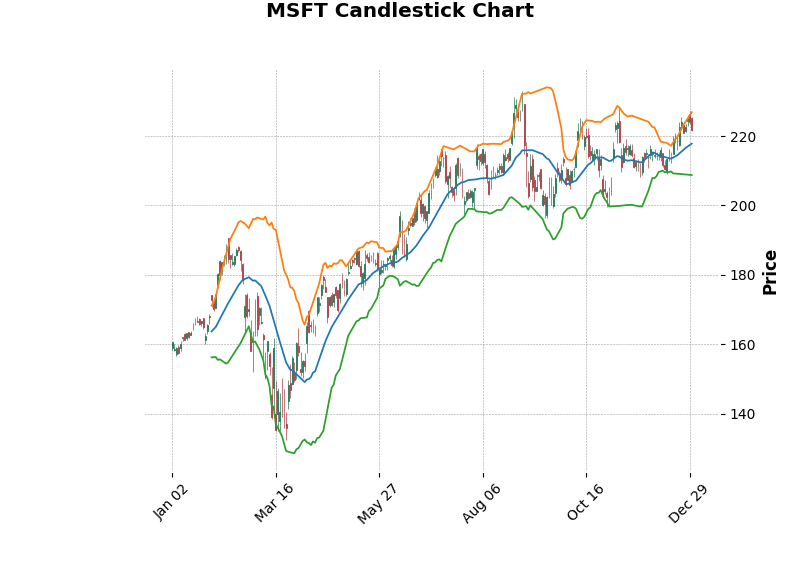
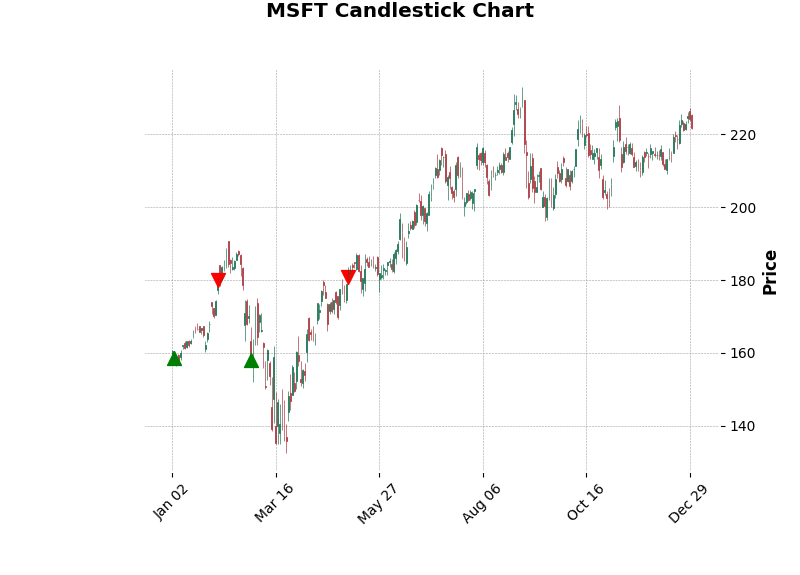
Working with basic strategy markers

diff --git a/graph_charts.py b/graph_charts.py
@@ -66,7 +66,7 @@ def add_volume(data, stock, data_original):
     data_with_volume['Volume'] = data_original[f'{stock} Volume']
     return data_with_volume
 
-def create_candlestick_chart(csv_file, output_filename, stock, volume=False, bollinger_bands=False, moving_averages=False, rsi=False):
+def create_candlestick_chart(csv_file, output_filename, stock, backtesting_instance=None, volume=False, bollinger_bands=False, moving_averages=False, rsi=False):
     data_original = pd.read_csv(csv_file, index_col=0, parse_dates=True)
     column_prefix = stock
     data = data_original[[f'{column_prefix} Open', f'{column_prefix} High', f'{column_prefix} Low', f'{column_prefix} Close']]
@@ -89,10 +89,31 @@ def create_candlestick_chart(csv_file, output_filename, stock, volume=False, bol
         rsi_plot, data = add_rsi(data)
         additional_plots.append(rsi_plot)
 
-    mpf.plot(data, type='candle', style='charles', title=f'{stock} Candlestick Chart', ylabel='Price',
-             ylabel_lower='Volume', volume=volume, addplot=additional_plots, savefig=output_filename)
+    if backtesting_instance:
+        events = backtesting_instance.get_events(stock=stock)
+        buy_events = {pd.to_datetime(event[0]): event[2] for event in events if event[1] == 'buy' and event[0] in data.index}
+        sell_events = {pd.to_datetime(event[0]): event[2] for event in events if event[1] == 'sell' and event[0] in data.index}
+
+        buy_df = data[['Close']].copy()
+        sell_df = data[['Close']].copy()
+
+        buy_df['Price'] = buy_df.index.map(buy_events).fillna(None)
+        sell_df['Price'] = sell_df.index.map(sell_events).fillna(None)
+
+        buy_markers = mpf.make_addplot(buy_df['Price'], scatter=True, markersize=100, marker='^', color='g') if not buy_df['Price'].isnull().all() else None
+        sell_markers = mpf.make_addplot(sell_df['Price'], scatter=True, markersize=100, marker='v', color='r') if not sell_df['Price'].isnull().all() else None
+
+        markers = [buy_markers, sell_markers]
+        markers = [m for m in markers if m is not None]  # Remove None values from the markers list
+        mpf.plot(data, type='candle', style='charles', title=f'{stock} Candlestick Chart', ylabel='Price',
+                ylabel_lower='Volume', volume=volume, addplot=markers + additional_plots, savefig=output_filename)
+    else:
+        mpf.plot(data, type='candle', style='charles', title=f'{stock} Candlestick Chart', ylabel='Price',
+                ylabel_lower='Volume', volume=volume, savefig=output_filename)
 
 
-def create_all_charts(volume=False, bollinger_bands=False, moving_averages=False, rsi=False):
-    create_candlestick_chart('historical_stock_data.csv', 'static/AAPL_chart.png', 'AAPL', volume=volume, bollinger_bands=bollinger_bands, moving_averages=moving_averages, rsi=rsi)
-    create_candlestick_chart('historical_stock_data.csv', 'static/MSFT_chart.png', 'MSFT', volume=volume, bollinger_bands=bollinger_bands, moving_averages=moving_averages, rsi=rsi)
+
+def create_all_charts(backtesting_instance=None, volume=False, bollinger_bands=False, moving_averages=False, rsi=False):
+    create_candlestick_chart('historical_stock_data.csv', 'static/AAPL_chart.png', 'AAPL', backtesting_instance=backtesting_instance, volume=volume, bollinger_bands=bollinger_bands, moving_averages=moving_averages, rsi=rsi)
+    create_candlestick_chart('historical_stock_data.csv', 'static/MSFT_chart.png', 'MSFT', backtesting_instance=backtesting_instance, volume=volume, bollinger_bands=bollinger_bands, moving_averages=moving_averages, rsi=rsi)
+

diff --git a/backtesting.py b/backtesting.py
@@ -1,63 +1,35 @@
-import pandas_ta as ta
+import pandas as pd
+import numpy as np
 
 class Backtesting:
-    def __init__(self, period = 14):
-        self.orders = []
-        self.period = period
-    
-    def calculate_rsi(self, stock_data):
-        close_column = [col for col in stock_data.columns if 'Close' in col][0]  # Identify the close column
-        return ta.rsi(stock_data[close_column], length=self.period)
+    def __init__(self, csv_file):
+        self.data = pd.read_csv(csv_file, index_col=0, parse_dates=True)
+        self.events = []
 
+    def basic_strategy(self, stock, buy_threshold, sell_threshold):
+        data = self.data[[f'{stock} Open', f'{stock} High', f'{stock} Low', f'{stock} Close']]
+        data.columns = ['Open', 'High', 'Low', 'Close']
 
+        position = 0
+        buy_price = 0
+        profit = 0
 
-    def buy(self, stock, price, shares):
-        order = {
-            'stock': stock,
-            'price': price,
-            'shares': shares,
-            'type': 'buy'
-        }
-        self.orders.append(order)
+        for index, row in data.iterrows():
+            if row['Close'] < buy_threshold and position == 0:
+                position = 1
+                buy_price = row['Close']
+                self.events.append((index, "buy", buy_price, stock))
+            elif row['Close'] > sell_threshold and position == 1:
+                position = 0
+                sell_price = row['Close']
+                profit += sell_price - buy_price
+                self.events.append((index, "sell", sell_price, stock))
 
-    def sell(self, stock, price, shares):
-        order = {
-            'stock': stock,
-            'price': price,
-            'shares': shares,
-            'type': 'sell'
-        }
-        self.orders.append(order)
-    
-    def backtest_basic_strategy(self, historical_data):
-        positions = []
-        total_profit = 0
+        return profit
 
-        historical_data['RSI'] = self.calculate_rsi(historical_data)
+    def get_events(self, stock=None):
+        if stock is not None:
+            return [event for event in self.events if event[3] == stock]
+        return self.events
 
-        for index, row in historical_data.iterrows():
-            # Buy signal
-            if row['RSI'] < 30:
-                self.buy('AAPL', row['Close'], 1)
-                positions.append({'stock': 'AAPL', 'buy_price': row['Close'], 'buy_date': index})
-
-            # Sell signal
-            elif row['RSI'] > 70:
-                for position in positions:
-                    if position['stock'] == 'AAPL':
-                        self.sell('AAPL', row['Close'], 1)
-                        profit = row['Close'] - position['buy_price']
-                        total_profit += profit
-                        positions.remove(position)
-
-            # Close all positions at the end of the month
-            if index.month != row.name.month:
-                for position in positions:
-                    if position['stock'] == 'AAPL':
-                        self.sell('AAPL', row['Close'], 1)
-                        profit = row['Close'] - position['buy_price']
-                        total_profit += profit
-                        positions.remove(position)
-
-        return total_profit
 

diff --git a/main.py b/main.py
@@ -1,5 +1,6 @@
 from flask import Flask, render_template, request
 import graph_charts
+from backtesting import Backtesting
 
 app = Flask(__name__)
 
@@ -11,9 +12,14 @@ def index():
         moving_averages = request.form.get("moving_averages") == "on"
         rsi = request.form.get("rsi") == "on"
 
-        graph_charts.create_all_charts(volume=volume, bollinger_bands=bollinger_bands, moving_averages=moving_averages, rsi=rsi)
+        backtesting_instance = Backtesting('historical_stock_data.csv')
+        backtesting_instance.basic_strategy('AAPL', buy_threshold=110, sell_threshold=120)
+        backtesting_instance.basic_strategy('MSFT', buy_threshold=160, sell_threshold=180)
+
+        graph_charts.create_all_charts(backtesting_instance=backtesting_instance, volume=volume, bollinger_bands=bollinger_bands, moving_averages=moving_averages, rsi=rsi)
 
     return render_template("index.html")
+
 
 if __name__ == "__main__":
     app.run(debug=True)

diff --git a/get_stock_data.py b/get_stock_data.py
@@ -1,6 +1,25 @@
 import yfinance as yf
+import pandas as pd
 
-def get_stock_data(tickers, start_date, end_date):
-    stock_data = yf.download(tickers, start=start_date, end=end_date)
-    return stock_data
+def get_historical_data(tickers, start_date, end_date, csv_file):
+    data = yf.download(tickers, start=start_date, end=end_date)
+
+    # Update column names
+    new_columns = []
+    for col in data.columns:
+        new_col = col[1] + ' ' + col[0]
+        new_columns.append(new_col)
+    data.columns = new_columns
+
+    # Save the data to a CSV file
+    data.to_csv(csv_file)
+
+if __name__ == "__main__":
+    # Example usage
+    tickers = "AAPL MSFT"  # You can add more tickers separated by a space
+    start_date = "2020-01-01"
+    end_date = "2020-12-31"
+    csv_file = "historical_stock_data.csv"
+
+    get_historical_data(tickers, start_date, end_date, csv_file)
 
